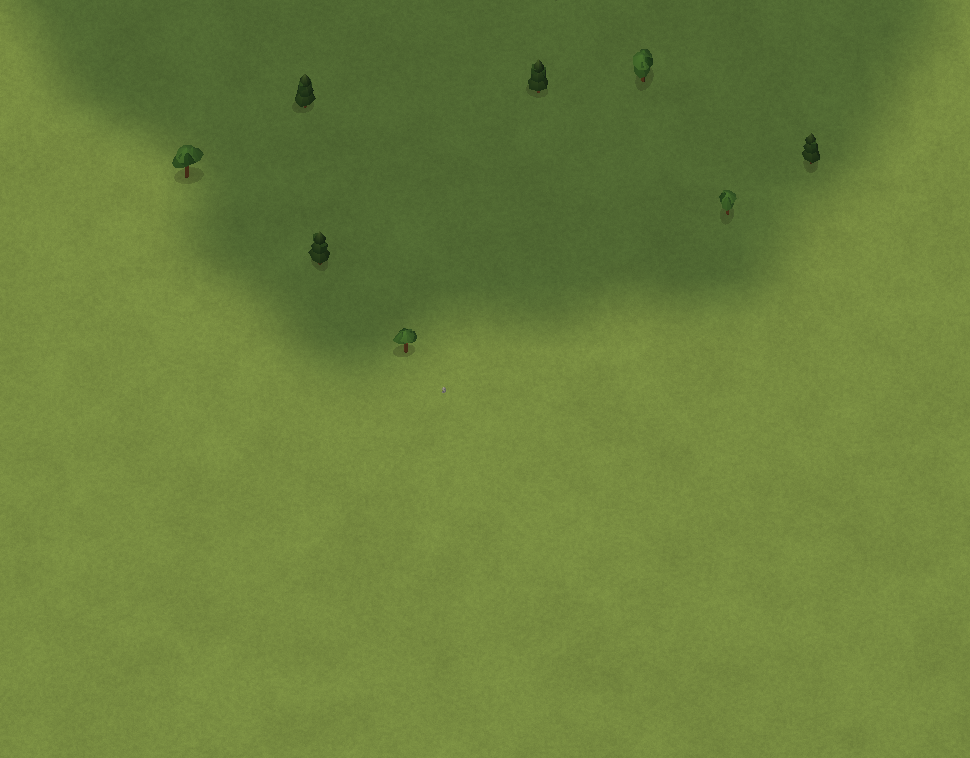
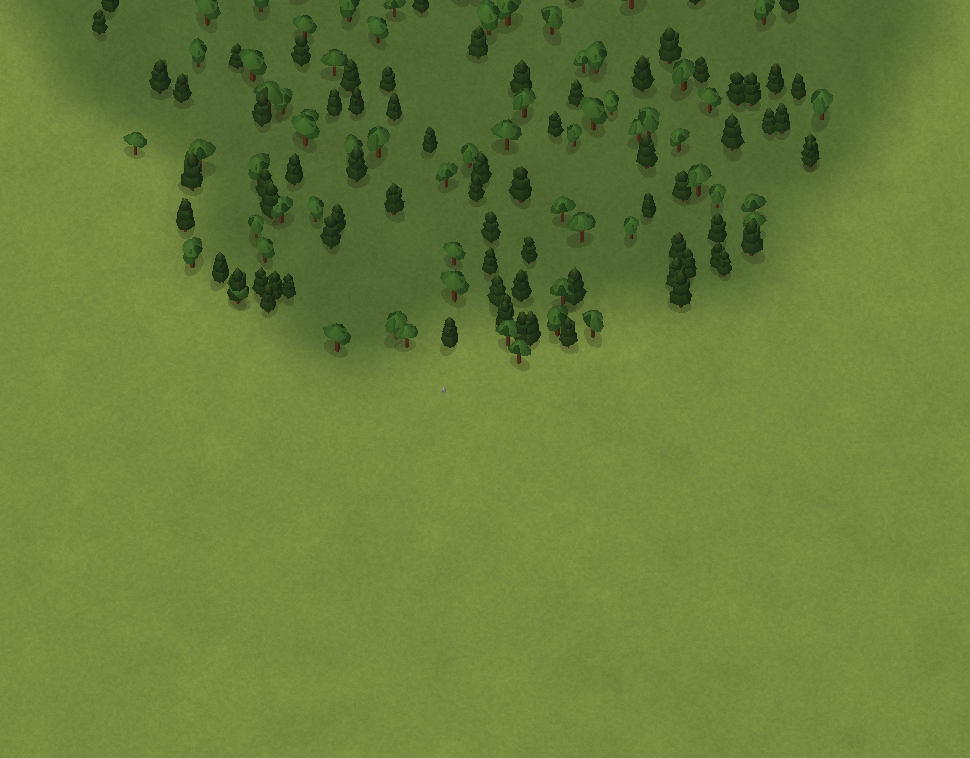
denser battle forests: scale tree count with area, fill the canopy
Forest tree count was linear in radius (TREES_PER_RADIUS), so a typical wood got
only ~10 trees and read as a sparse scattering. Trees now scale with forest AREA
(radius squared) and fill the interior uniformly, so a wood reads as a packed
canopy — roughly an order of magnitude more trees, capped for performance.
Verified the perf battle budget still passes.

Re-blessed the two battle terrain-3d field views that frame a wood.

Claude-Session: https://claude.ai/code/session_01HXedC7tXjmvB4Xqnhyz2KK

diff --git a/packages/game-renderer/src/battle/terrainScenery.ts b/packages/game-renderer/src/battle/terrainScenery.ts
@@ -8,9 +8,11 @@ import type { BattleTerrainFeature } from './terrainFeatures';
 // clarity over literal fill) are battle's call; the meshes are the shared
 // registry. Deterministic: same features + seed → same instances.
 
-// Trees per metre of forest radius, capped so a big wood stays legible.
-const TREES_PER_RADIUS = 0.16;
-const MAX_TREES_PER_FOREST = 54;
+// Trees scale with forest AREA (not radius) so a wood reads as a dense, filled
+// canopy instead of a sparse scattering; capped so the largest wood stays
+// performant and legible.
+const TREES_PER_AREA = 0.034;
+const MAX_TREES_PER_FOREST = 240;
 const ROCKS_PER_RADIUS = 0.07;
 const MAX_ROCKS_PER_OUTCROP = 6;
 
@@ -25,11 +27,11 @@ export function featuresToBattleScenery(
     const f = features[fi];
     const rand = scatterRng(seed ^ Math.imul(fi + 1, 0x9e3779b1));
     if (f.kind === 'forest') {
-      const n = clampInt(Math.round(f.radius * TREES_PER_RADIUS), 3, MAX_TREES_PER_FOREST);
+      const n = clampInt(Math.round(f.radius * f.radius * TREES_PER_AREA), 12, MAX_TREES_PER_FOREST);
       for (let k = 0; k < n; k++) {
-        // Fill the wood with a slight outward bias so the canopy edge stays the
-        // strongest read (gameplay clarity) without a hollow centre.
-        const r = f.radius * (0.2 + 0.8 * Math.sqrt(rand()));
+        // Uniform area fill (sqrt keeps the density even from centre to edge) so
+        // the wood reads as a packed canopy rather than a hollow ring.
+        const r = f.radius * Math.sqrt(rand());
         const a = rand() * Math.PI * 2;
         const x = f.x + Math.cos(a) * r;
         const y = f.y + Math.sin(a) * r;
